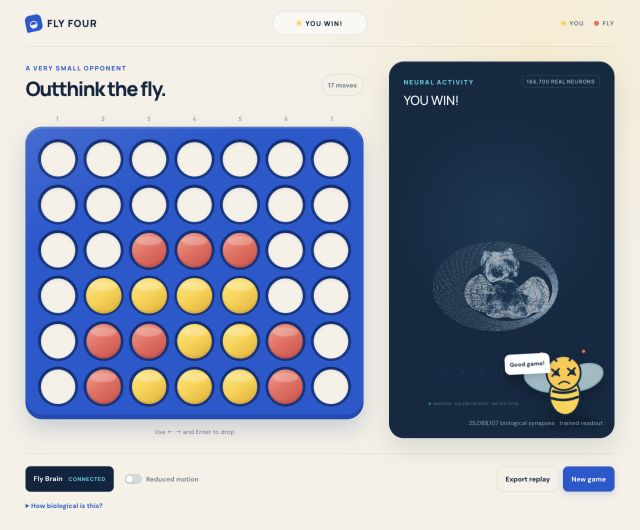
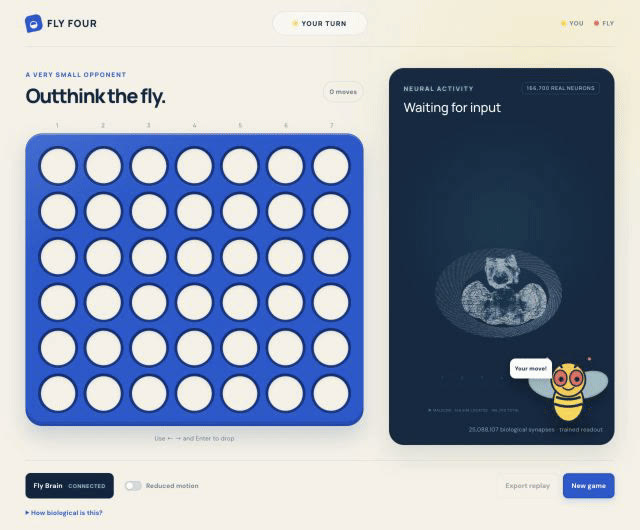
Remove unavailable demo link from README

diff --git a/README.md b/README.md
@@ -1,12 +1,6 @@
 # Fly Four
 
-## [Open the public Fly Four site →](https://kennymx.github.io/FlyFour/)
-
-[![Fly Four interface showing a completed game and the MaleCNS neuron visualization](docs/demo/final.jpg)](https://kennymx.github.io/FlyFour/)
-
-The GitHub Pages interface is public and works without a GitHub account. Playing
-against the MaleCNS brain requires the Python backend described below; GitHub
-Pages hosts the static interface only.
+![Fly Four interface at the start of a game with the MaleCNS neuron visualization](docs/demo/final.jpg)
 
 Connect Four against a trained readout of the real **MaleCNS v1.0 fruit-fly connectome**.
 
